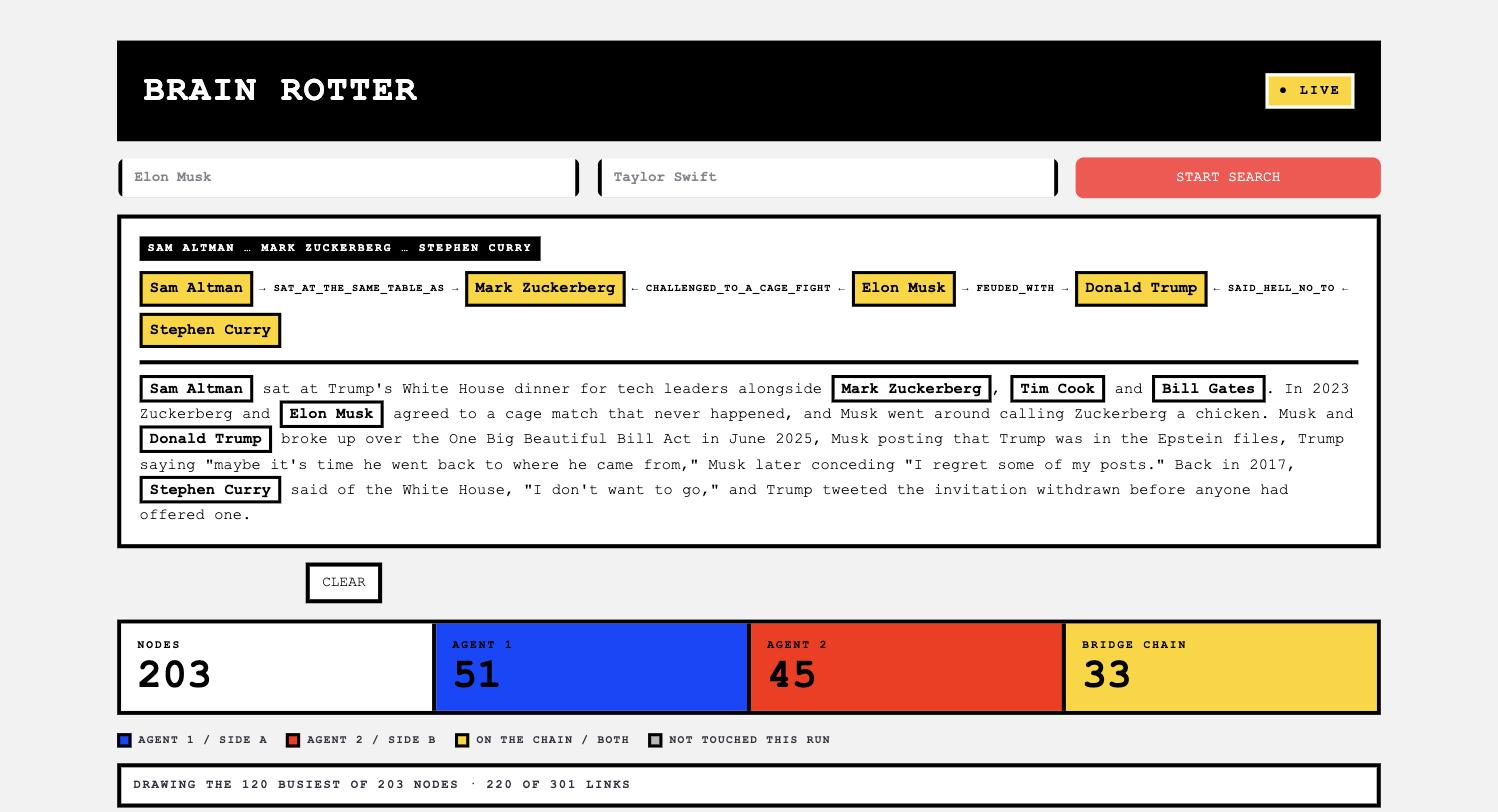
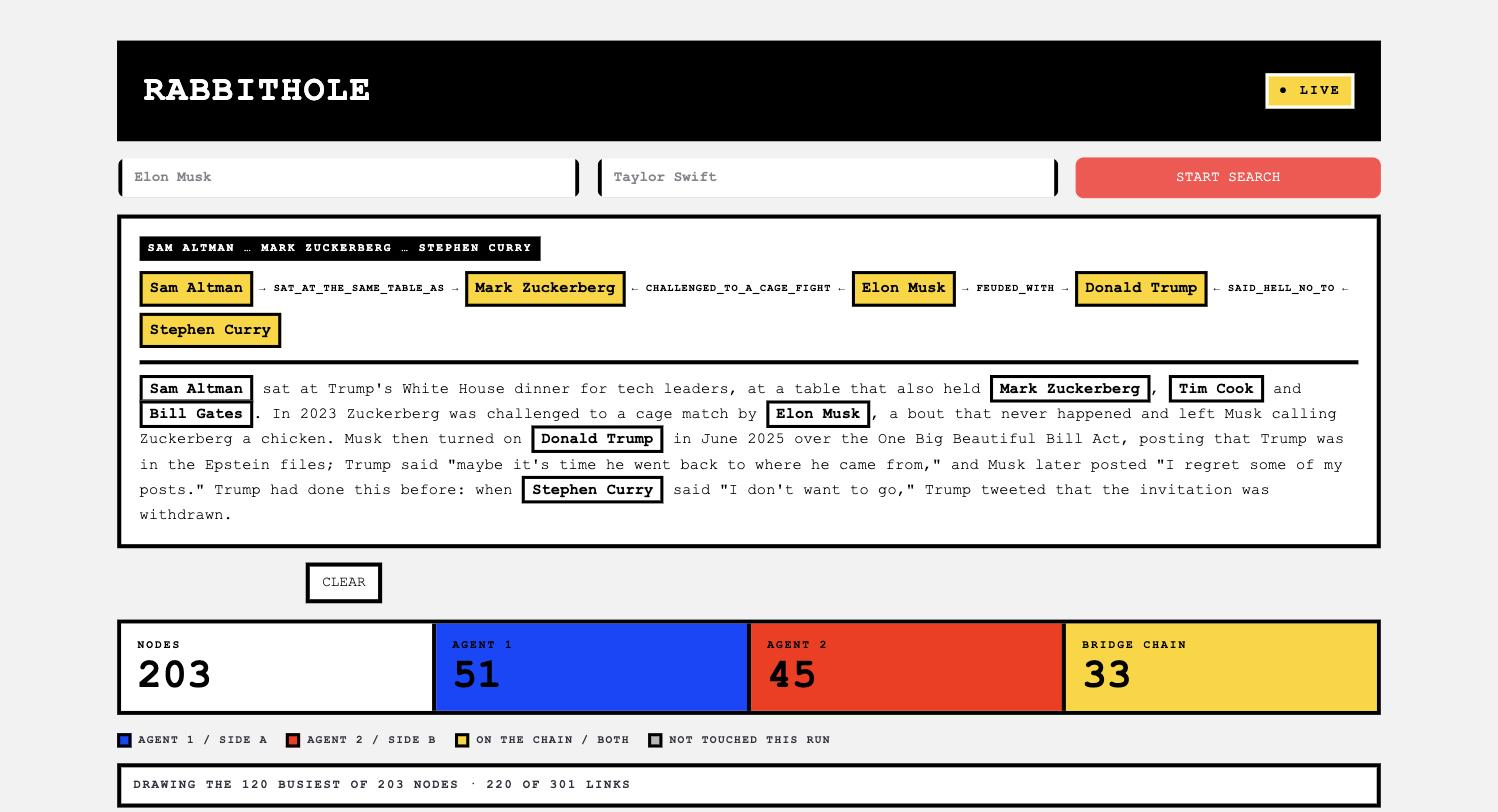
Rename to RabbitHole
Claude-Session: https://claude.ai/code/session_0184cs4KdY8bPwPXXTCDo63D

Changed region(s): [[0.0921, 0.4618, 0.8905, 0.6466], [0.0921, 0.0924, 0.2764, 0.1232]]

diff --git a/app.py b/app.py
@@ -756,7 +756,7 @@ def render_header():
     st.markdown(
         """
         <div class="header-bar">
-            <div class="header-title">brain&nbsp;rotter</div>
+            <div class="header-title">RabbitHole</div>
             <div class="live-badge">● LIVE</div>
         </div>
         """,
@@ -936,7 +936,7 @@ def live_graph(driver):
 
 def main():
     st.set_page_config(
-        page_title="brain rotter", layout="wide"
+        page_title="RabbitHole", layout="wide"
     )
     render_header()
 

diff --git a/README.md b/README.md
@@ -1,4 +1,4 @@
-# brain rotter
+# RabbitHole
 
 Type two famous names. Two research agents dig outward from one name each — feuds, exes,
 diss tracks, unfollows, lawsuits, whatever the internet is saying — writing everything they
